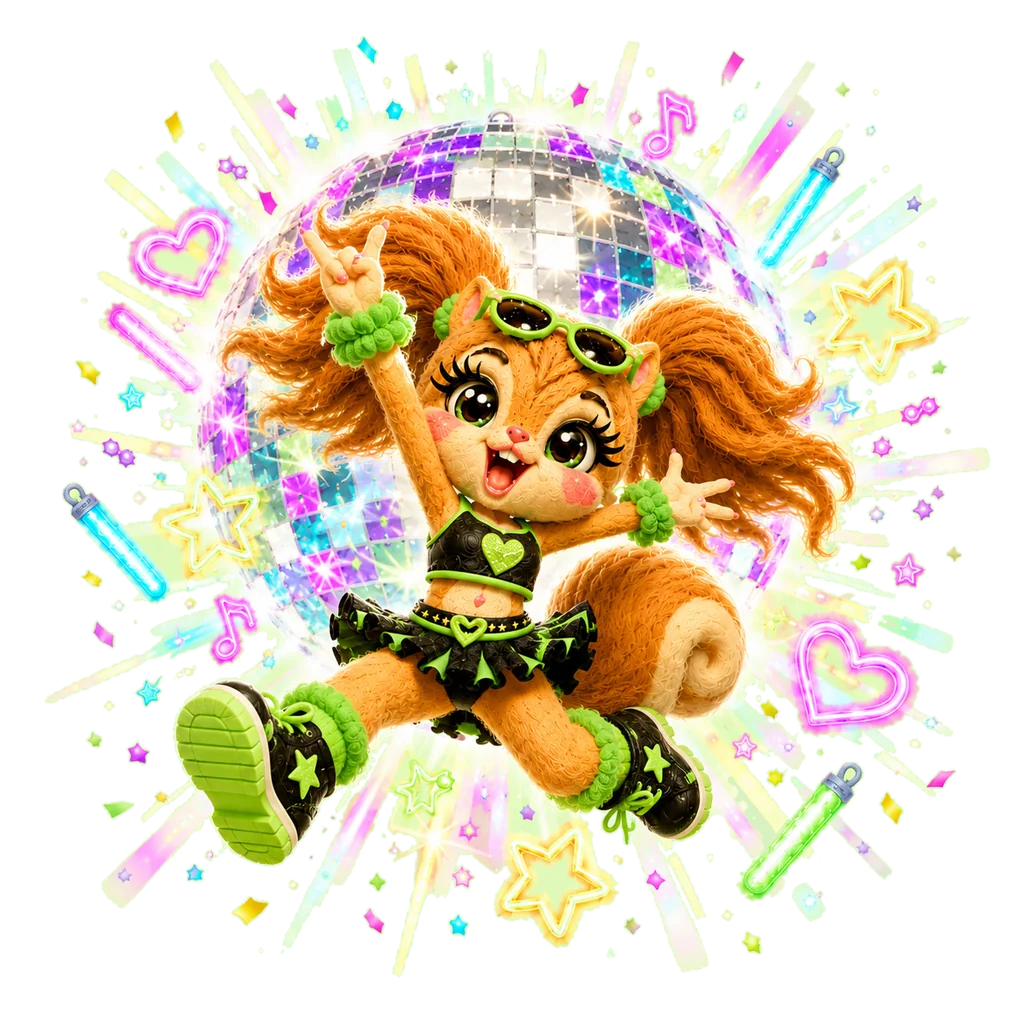
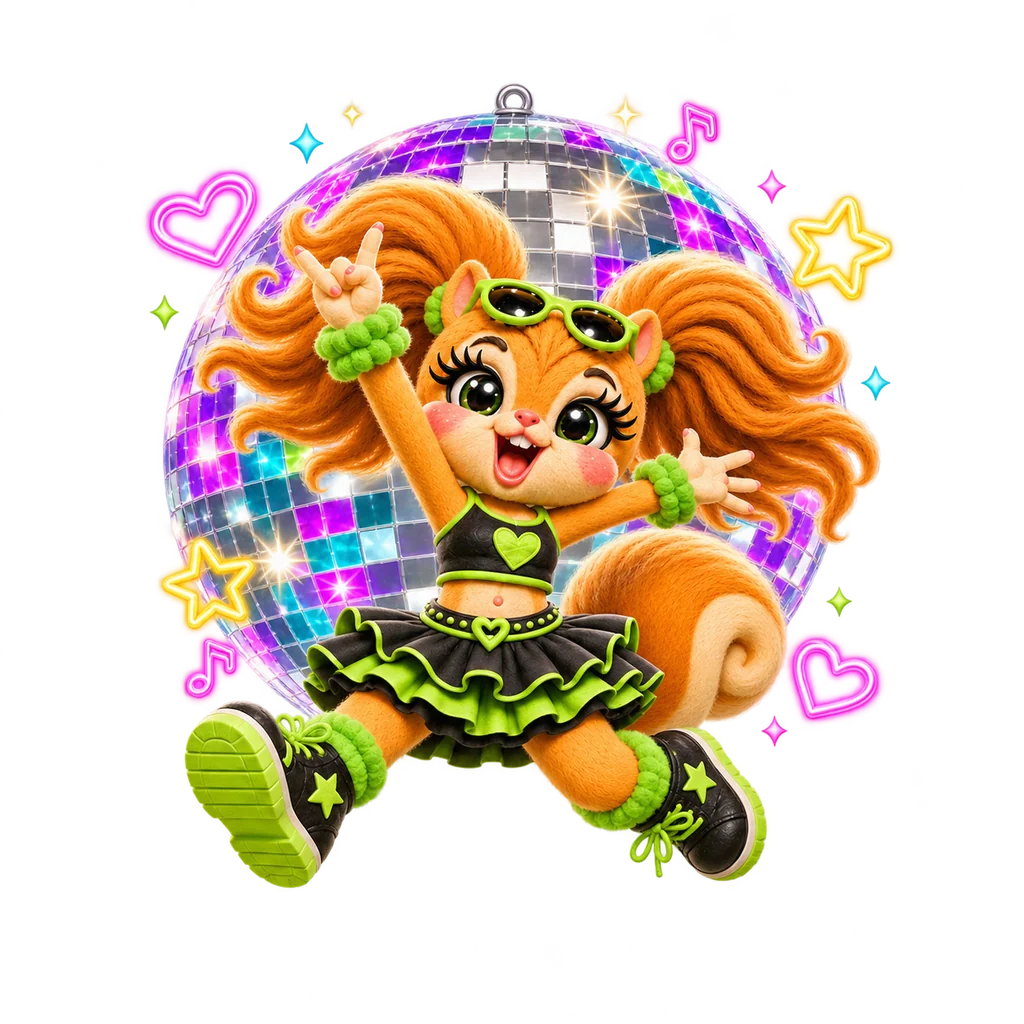
楽天家(squirrel_R)の診断結果ヒーロー画像をミラーボール最新版に差し替え
- public/characters/cut/squirrel_R.webp を新しい透過版(1024px)に置換
- 画像マニフェストの上下余白を再計測(上0.081/下0.133)
- キャラ素材のキャッシュ世代を 20261117-1 に更新

Claude-Session: https://claude.ai/code/session_01TauYvNRaFvhmnvTUQTx27p

diff --git a/src/lib/asset-versions.ts b/src/lib/asset-versions.ts
@@ -1,3 +1,3 @@
 // ファイル名を変えずに差し替える生成済みキャラ素材の世代。
 // next/image の許可リストとURL生成で共有し、更新漏れを防ぐ。
-export const GENERATED_CHARACTER_ASSET_VERSION = "20260910-1";
+export const GENERATED_CHARACTER_ASSET_VERSION = "20261117-1";
